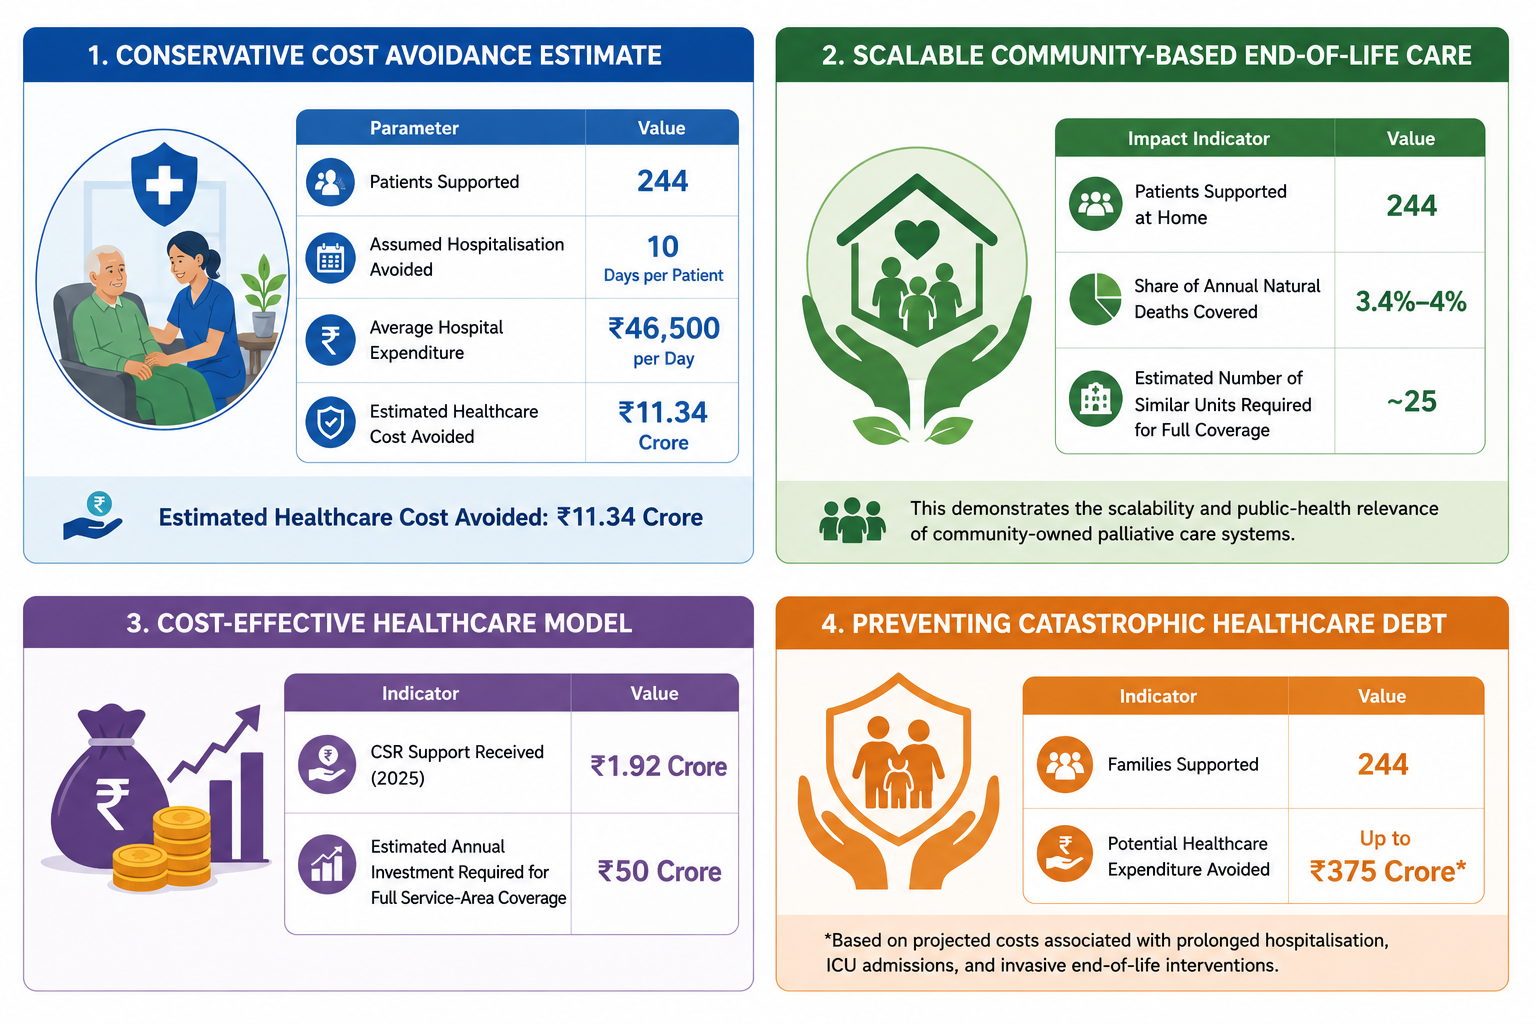
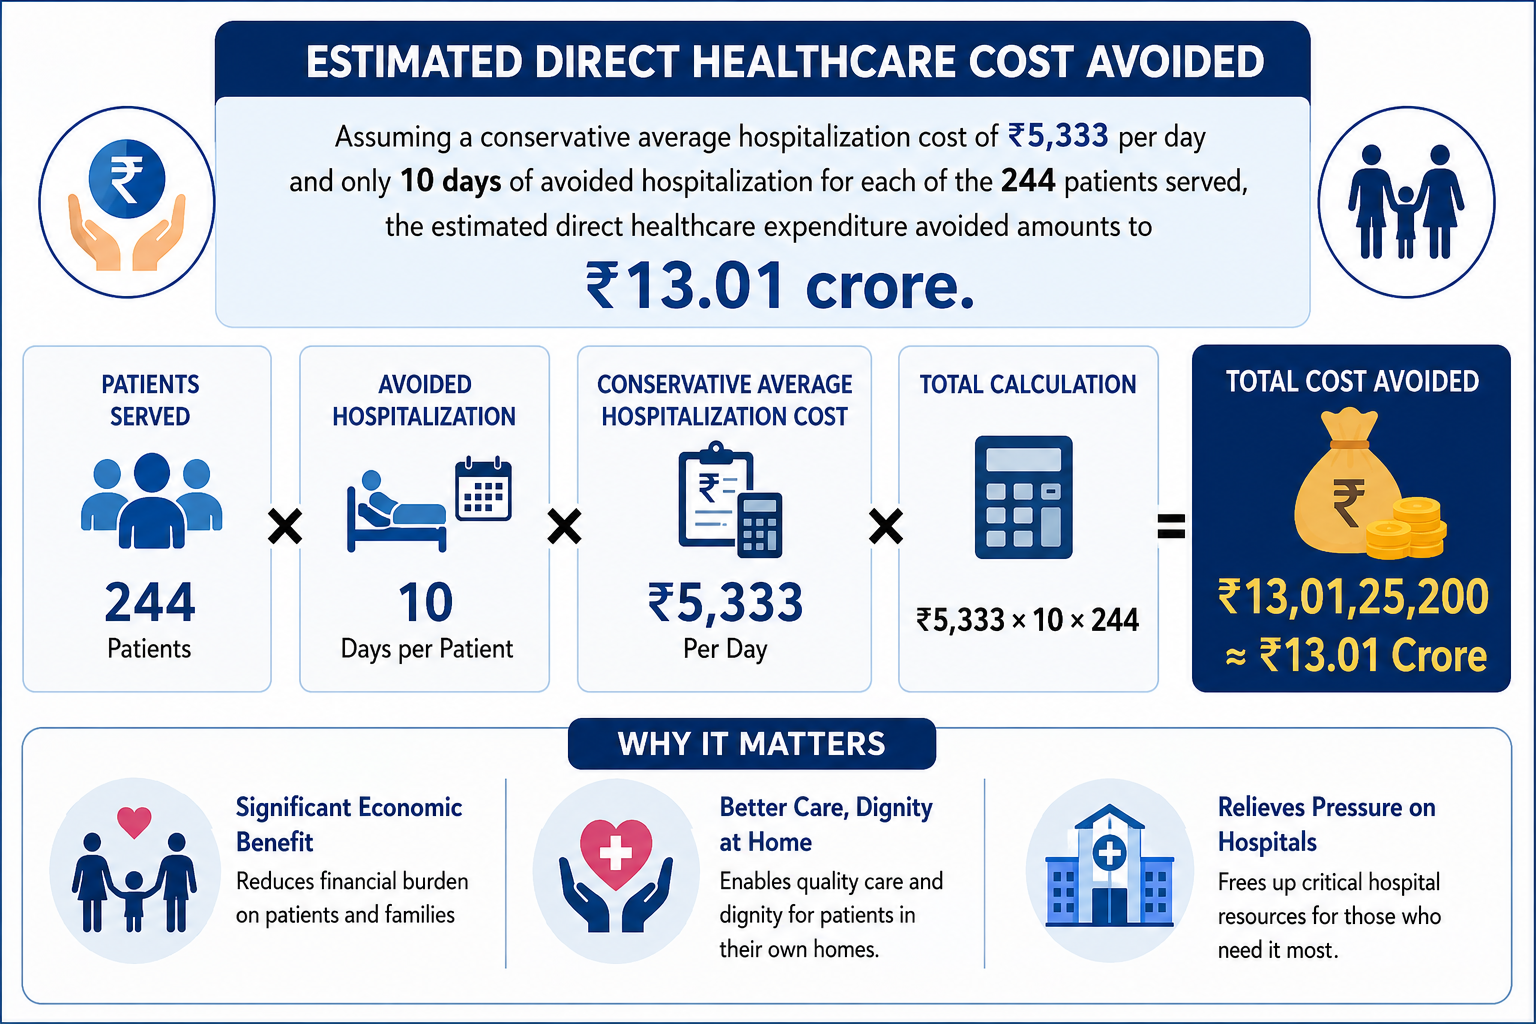
Update styles and content for economic impact section; replace images and adjust statistics

diff --git a/styles.css b/styles.css
@@ -413,6 +413,143 @@ ul.clean li::before {
   margin-top: 4pt;
 }
 
+/* ---------- Scaling band (economic impact) ---------- */
+.hero-figure {
+  padding: 12pt 16pt 13pt;
+  background: rgba(185,74,44,0.07);
+  border: 1px solid rgba(185,74,44,0.22);
+  border-radius: 5px;
+}
+.hero-figure .hf-label {
+  display: block;
+  font-family: var(--sans);
+  font-size: 8pt;
+  font-weight: 600;
+  letter-spacing: 0.16em;
+  text-transform: uppercase;
+  color: var(--terracotta);
+}
+.hero-figure .hf-num {
+  display: block;
+  font-family: var(--serif);
+  font-weight: 500;
+  font-size: 50pt;
+  line-height: 0.95;
+  letter-spacing: -0.025em;
+  color: var(--terracotta);
+  white-space: nowrap;
+  margin: 4pt 0 2pt;
+}
+.hero-figure .hf-num small {
+  font-size: 0.36em;
+  font-weight: 500;
+  letter-spacing: 0;
+  margin-left: 1pt;
+}
+.hero-figure .hf-text {
+  display: block;
+  font-family: var(--sans);
+  font-size: 9.5pt;
+  line-height: 1.4;
+  color: var(--ink-soft);
+}
+.hero-figure .hf-text strong { color: var(--ink); font-weight: 600; }
+.hero-figure .hf-calc {
+  margin-top: 9pt;
+  padding-top: 8pt;
+  border-top: 1px solid rgba(185,74,44,0.22);
+  font-family: var(--serif);
+  font-size: 10pt;
+  color: var(--terracotta-d);
+}
+.hero-figure .hf-calc strong { color: var(--terracotta); }
+
+.scale-band {
+  display: flex;
+  align-items: stretch;
+  margin-top: 4pt;
+  border: 1px solid var(--rule);
+  border-radius: 5px;
+  overflow: hidden;
+  background: var(--cream);
+}
+.scale-step {
+  flex: 1 1 0;
+  display: flex;
+  flex-direction: column;
+  align-items: center;
+  justify-content: center;
+  text-align: center;
+  padding: 15pt 8pt;
+}
+.scale-step.is-goal { background: rgba(185,74,44,0.08); }
+.scale-step .scale-num {
+  font-family: var(--serif);
+  font-weight: 500;
+  font-size: 33pt;
+  line-height: 1;
+  letter-spacing: -0.02em;
+  color: var(--terracotta);
+  white-space: nowrap;
+}
+.scale-step .scale-num small { font-size: 0.42em; font-weight: 500; margin-left: 1pt; }
+.scale-step .scale-cap {
+  font-family: var(--sans);
+  font-size: 8pt;
+  letter-spacing: 0.13em;
+  text-transform: uppercase;
+  color: var(--ink-soft);
+  margin-top: 8pt;
+}
+.scale-op {
+  display: flex;
+  align-items: center;
+  justify-content: center;
+  font-family: var(--serif);
+  font-size: 22pt;
+  color: var(--muted);
+  background: var(--cream);
+  padding: 0 2pt;
+}
+
+/* Calculation chip + cost ledger */
+.calc-chip {
+  margin-top: 9pt;
+  padding: 8pt 11pt;
+  background: rgba(185,74,44,0.07);
+  border-left: 3px solid var(--terracotta);
+  border-radius: 3px;
+  font-family: var(--serif);
+  font-size: 10pt;
+  line-height: 1.4;
+  color: var(--terracotta-d);
+}
+.cost-list { list-style: none; padding: 0; margin: 7pt 0 0; }
+.cost-list li {
+  display: flex;
+  align-items: baseline;
+  justify-content: space-between;
+  gap: 10pt;
+  padding: 7pt 0;
+  margin: 0;
+  border-bottom: 1px solid var(--rule);
+}
+.cost-list li:first-child { border-top: 1px solid var(--rule); }
+.cost-list li strong {
+  font-family: var(--serif);
+  font-weight: 500;
+  font-size: 13pt;
+  color: var(--terracotta);
+  white-space: nowrap;
+}
+.cost-list li span {
+  font-family: var(--sans);
+  font-size: 8.5pt;
+  letter-spacing: 0.04em;
+  color: var(--ink-soft);
+  text-align: right;
+}
+
 .stat-row {
   display: grid;
   grid-template-columns: repeat(4, 1fr);
@@ -429,7 +566,7 @@ ul.clean li::before {
   border-top: 1px solid var(--rule);
 }
 .numbers-band .eyebrow { margin-bottom: 12pt; }
-.numbers-band .stat-row { margin: 0; }
+.numbers-band .stat-row { margin: 0; grid-template-columns: repeat(3, 1fr); }
 .numbers-band .stat-row + .stat-row { margin-top: 9mm; }
 .numbers-band .stat { border-top: none; padding-top: 0; }
 .numbers-band .stat .num { font-size: 29pt; }

diff --git a/index.html b/index.html
@@ -4,7 +4,7 @@
   <meta charset="utf-8" />
   <meta name="viewport" content="width=device-width,initial-scale=1" />
   <title>Arike Home Care - Annual Report 2025</title>
-  <link rel="stylesheet" href="styles.css?v=13" />
+  <link rel="stylesheet" href="styles.css?v=15" />
 </head>
 <body>
 
@@ -31,7 +31,7 @@
     <div class="org">An Initiative of IMA Cochin</div>
     <div class="thin-rule"></div>
     <h1>Care, <em>quietly</em><br/>at home.</h1>
-    <p class="cover-lede">A year spent inside other people's homes, restoring dignity and comfort to those living with serious illness, free of charge, across Ernakulam.</p>
+    <p class="cover-lede">A year spent inside other people's homes, restoring dignity and comfort to those living with serious illness, across Ernakulam.</p>
   </div>
 
   <div class="cover-photo">
@@ -42,7 +42,6 @@
     <div class="cover-stats">
       <div><strong>4,214</strong><span>Patients &amp; families</span></div>
       <div><strong>12,224</strong><span>Home visits</span></div>
-      <div><strong>100%</strong><span>Free of charge</span></div>
     </div>
     <span class="year">Annual Report 2025</span>
   </div>
@@ -67,7 +66,7 @@
         Who did it reach? Who made it possible? What did we learn?</em> And - most
         importantly - <em>what comes next?</em></p>
       <div class="pullquote">
-        No one should have to face the most difficult moments of life alone, or in pain.
+        No one should be left alone, deprived of care, simply because they do not have the money to afford it.
       </div>
       <p style="text-align:right; font-family: var(--serif); font-style: italic; color: var(--terracotta); font-size: 12pt; margin-top: 6pt;">
         - The Arike Team
@@ -80,13 +79,11 @@
         <div class="stat"><span class="num">4,214</span><span class="label">Patients &amp; families</span></div>
         <div class="stat"><span class="num">12,224</span><span class="label">Home visits</span></div>
         <div class="stat"><span class="num">33,132</span><span class="label">Calls answered</span></div>
-        <div class="stat"><span class="num">69,127</span><span class="label">Kilometres driven</span></div>
       </div>
       <div class="stat-row">
+        <div class="stat"><span class="num">69,127</span><span class="label">Kilometres driven</span></div>
         <div class="stat"><span class="num">50</span><span class="label">Social-work interns</span></div>
         <div class="stat"><span class="num">12</span><span class="label">International nurses</span></div>
-        <div class="stat"><span class="num">&#8377;2.52<small>cr</small></span><span class="label">Care delivered</span></div>
-        <div class="stat"><span class="num">100%</span><span class="label">Free of charge</span></div>
       </div>
     </div>
   </div>
@@ -338,7 +335,7 @@
     <div class="chart-pair">
       <div class="cell">
         <img src="images/final/f04.png" alt="Kerala palliative care coverage infographic" />
-        <p class="chart-caption">Of Ernakulam's 34 lakh residents, only 0.7% currently receive palliative care; reaching just 5% would mean 1,38,000 more.</p>
+       <!-- <p class="chart-caption">Of Ernakulam's 34 lakh residents, only 0.7% currently receive palliative care; reaching just 5% would mean 1,38,000 more.</p> -->
       </div>
       <div class="cell">
         <img src="images/final/f03.png" alt="Kerala palliative care limitations infographic" />
@@ -569,10 +566,12 @@
     <p class="eyebrow">III · Impact</p>
     <h2 class="section-title" style="font-size:26pt;">Notable impacts - <em>reducing the hospitalisation burden.</em></h2>
     <p class="lede" style="font-size:11.5pt; margin-top:6pt;">In 2025, Arike received a total income of <strong>&#8377;2.52 crore</strong> - enabling community-based palliative care for <strong>244 terminally ill patients</strong>, allowing them to remain in the comfort and dignity of their homes while reducing avoidable hospital admissions. Of this, &#8377;15.18 lakh came through one-time donations and &#8377;4.51 lakh through recurring online giving.</p>
-    <div class="stat-row" style="margin-top:12pt;">
+    <div class="stat-row" style="grid-template-columns:repeat(3,1fr); margin-top:12pt;">
       <div class="stat"><span class="num">&#8377;2.52<small>Cr</small></span><span class="label">Total income, 2025</span></div>
       <div class="stat"><span class="num">&#8377;1.92<small>Cr</small></span><span class="label">CSR support</span></div>
       <div class="stat"><span class="num">&#8377;40.55<small>L</small></span><span class="label">Beneficiary contributions</span></div>
+      <div class="stat"><span class="num">&#8377;15.18<small>Cr</small></span><span class="label">One-Time Donations</span></div>
+      <div class="stat"><span class="num">&#8377;4.51<small>Cr</small></span><span class="label">Recurring Donations</span></div>
       <div class="stat"><span class="num">244</span><span class="label">Terminally ill patients at home</span></div>
     </div>
     <p style="font-size:9pt; margin-top:10pt; color:var(--muted);">From 98 services in 2019 to 24,295 in 2024-25 - a sustained upward trajectory reflecting service capacity, multidisciplinary interventions, and community trust.</p>
@@ -590,24 +589,57 @@
   <div class="page-inner" style="display:flex; flex-direction:column;">
     <p class="eyebrow">A scalable model for compassionate end-of-life care</p>
     <h2 class="section-title" style="font-size:24pt;">What it would take to <em>cover a district.</em></h2>
+
+    <p class="lede" style="font-size:13.5pt; line-height:1.4; max-width:155mm; margin:2pt 0 12pt;">
+      With <strong>&#8377;2.52 crore</strong>, Arike delivered comprehensive home-based palliative care across Ernakulam in 2025 - at a fraction of the cost of hospital care.
+    </p>
+
+    <!-- Two supporting columns -->
     <div class="grid-2" style="gap:9mm; margin-top:6pt; align-items:start;">
-      <div style="font-size:9pt; line-height:1.42;">
-        <p style="margin-top:0;">With &#8377;2.52 crore, Arike delivered comprehensive home-based palliative care. Around <strong>25 Arike-like units</strong> (&#8776;<strong>&#8377;62 crore</strong> a year) would cover the entire district of Ernakulam - a highly cost-effective alternative to prolonged hospitalisation and ICU care. In 2025 alone, an estimated <strong>&#8377;11.34 crore</strong> in direct healthcare costs was avoided.</p>
+      <div>
+        <h4 class="sub" style="margin-top:0;">The value it creates</h4>
+        <div class="hero-figure">
+          <span class="hf-num">&#8377;13.01<small>Cr</small></span>
+          <span class="hf-text">in direct costs saved by caring for patients at home rather than in hospital.</span>
+          <div class="hf-calc">244 patients <strong>&times;</strong> 10 days <strong>&times;</strong> &#8377;53,333/day</div>
+        </div>
+        <p style="font-size:9.5pt; line-height:1.45; margin:9pt 0 0;">Beyond direct savings, families avoid travel, food and lodging, lost caregiver income, and long-term debt - so the true benefit is far greater.</p>
       </div>
-      <div style="font-size:9pt; line-height:1.42;">
-        <h4 class="sub" style="margin-top:0; font-size:9.5pt;">The hidden value of home care</h4>
-        <p style="margin-top:0;">Beyond direct savings, families avoid travel, food and lodging during admissions, lost caregiver income, and long-term debt - so the true benefit is far greater than the estimate alone.</p>
+      <div>
+        <h4 class="sub" style="margin-top:0;">What hospitalisation costs</h4>
+        <p style="font-size:9.5pt; line-height:1.45; margin:0;">For terminally ill patients, admission places a severe financial burden on families. Average private-hospital expenses run:</p>
+        <ul class="cost-list">
+          <li><strong>&#8377;5,000-15,000</strong><span>Regular inpatient care, per day</span></li>
+          <li><strong>&#8377;10,000-25,000</strong><span>ICU observation, per day</span></li>
+          <li><strong>&#8377;50,000-1,00,000</strong><span>ICU + ventilator, per day</span></li>
+        </ul>
+        <p style="font-size:9.5pt; line-height:1.45; margin:9pt 0 0;">By caring for patients at home, Arike spares families these daily costs - the basis for the conservative estimate alongside.</p>
       </div>
     </div>
-    <div class="stat-row" style="grid-template-columns:repeat(3,1fr); margin-top:8pt;">
-      <div class="stat"><span class="num">~25</span><span class="label">Units to cover Ernakulam</span></div>
-      <div class="stat"><span class="num">&#8377;62<small>Cr</small></span><span class="label">Estimated annual funding</span></div>
-      <div class="stat"><span class="num">&#8377;11.34<small>Cr</small></span><span class="label">Healthcare costs avoided</span></div>
+
+    <!-- Hero: the scaling equation -->
+    <p class="eyebrow" style="margin:13pt 0 7pt;">To cover a district like Ernakulam</p>
+    <div class="scale-band">
+      <div class="scale-step">
+        <span class="scale-num">~25</span>
+        <span class="scale-cap">Arike-like units</span>
+      </div>
+      <div class="scale-op">&rarr;</div>
+      <div class="scale-step">
+        <span class="scale-num">&#8377;62<small>Cr</small></span>
+        <span class="scale-cap">a year</span>
+      </div>
+      <div class="scale-op">&rarr;</div>
+      <div class="scale-step is-goal">
+        <span class="scale-num">100<small>%</small></span>
+        <span class="scale-cap">of the district covered</span>
+      </div>
     </div>
-    <div class="chart-pair row" style="margin-top:8pt;">
+
+    <div class="chart-pair row" style="margin-top:10pt;">
       <div class="cell">
-        <img src="images/final/f07.png" alt="Estimated economic impact of Arike's home-based palliative care 2025" />
-        <p class="chart-caption">244 patients &times; 10 days avoided &times; &#8377;46,500/day = &#8377;11.34 crore avoided.</p>
+        <img src="images/final/f07.png?v=2" alt="Estimated direct healthcare cost avoided: 244 patients over 10 days at a conservative daily rate, totalling 13.01 crore rupees" />
+        <p class="chart-caption">How &#8377;13.01 crore in avoided healthcare costs was estimated.</p>
       </div>
       <div class="cell">
         <img src="images/final/f08.png" alt="Hidden costs of hospitalisation avoided through home-based care" />
@@ -1278,7 +1310,7 @@
         <tr><td>April</td><td class="num">3,886</td><td class="num">1,807</td><td class="num">113</td><td class="num">5,806</td></tr>
         <tr><td>May</td><td class="num">2,960</td><td class="num">3,744</td><td class="num">466</td><td class="num">7,170</td></tr>
         <tr><td>June</td><td class="num">134</td><td class="num">3,305</td><td class="num">646</td><td class="num">4,085</td></tr>
-        <tr><td>July</td><td class="num">0</td><td class="num">3,579</td><td class="num">806</td><td class="num">4,385</td></tr>
+        <tr><td>July</td><td class="num">-</td><td class="num">3,579</td><td class="num">806</td><td class="num">4,385</td></tr>
         <tr><td>August</td><td class="num">28</td><td class="num">3,490</td><td class="num">1,246</td><td class="num">4,764</td></tr>
         <tr><td>September</td><td class="num">156</td><td class="num">2,668</td><td class="num">759</td><td class="num">3,583</td></tr>
         <tr><td>October</td><td class="num">2,401</td><td class="num">2,747</td><td class="num">995</td><td class="num">6,143</td></tr>